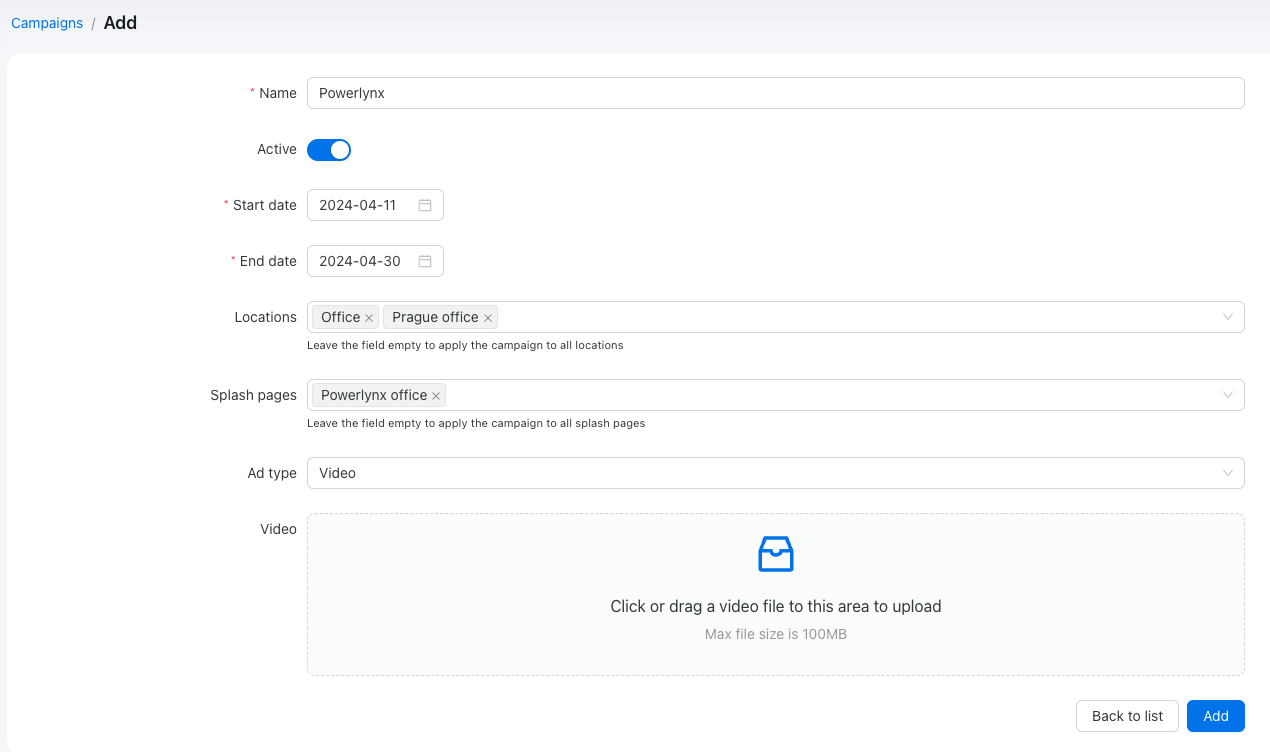
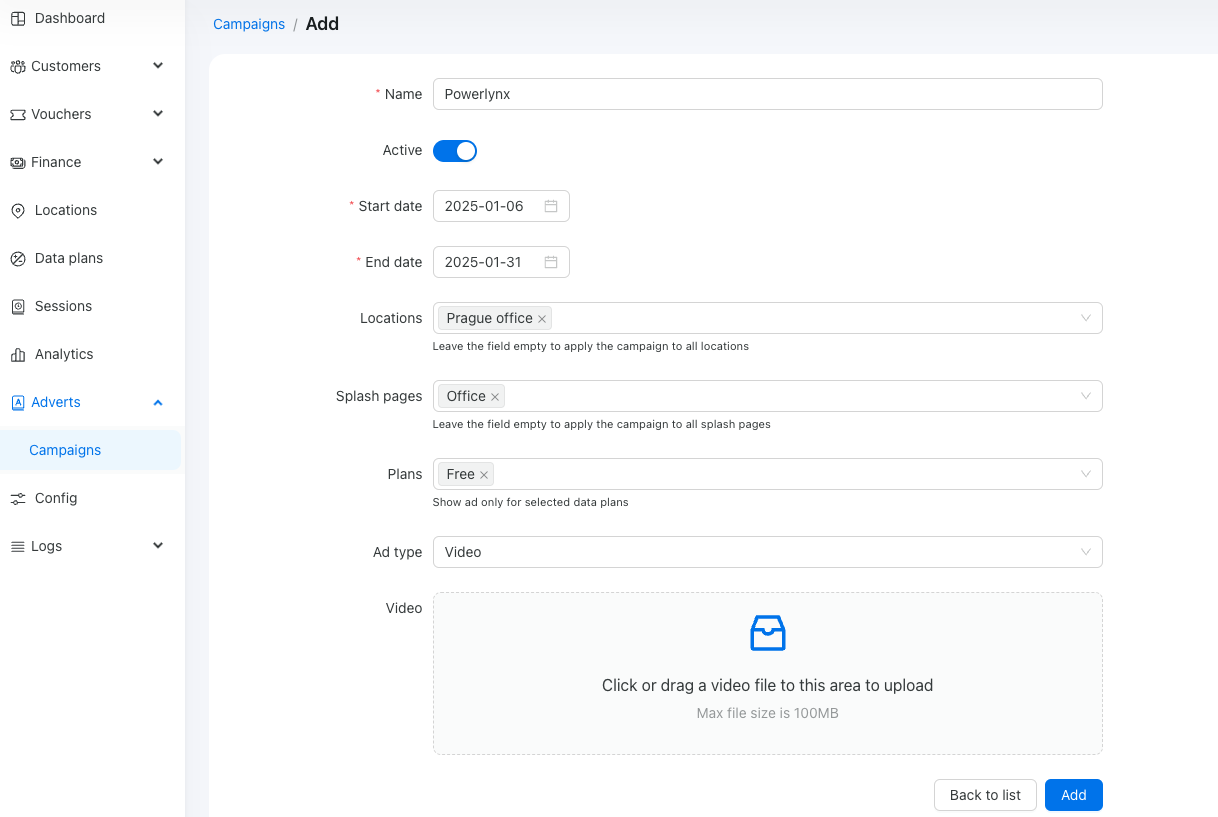
update docs

diff --git a/system/reports.md b/system/reports.md
@@ -40,9 +40,16 @@ Export customers filtered by different statuses and their join dates. Sometimes,
 
 The exported data includes all customer information and also the last time the customer was online, when the last purchase was made, and more.
 
+## Customers by Location
+
+A new report lets you see which customers were activated at a specific location during a chosen timeframe.
+
+**Example:** You might export all customers (and their details) who purchased a voucher at Location #1, the Restaurant. This information can then be used to create personalized email campaigns targeting those customers.
+
+
 ## Payments export
 
-Export payments filtered by different payment gateways, date, etc.
+This report provides an export of payments for a specified period. You can generate it by filtering based on location, payment gateway, and date range. The resulting file includes: customer, payment and voucher details; the location where each voucher was purchased; first session information (MAC address, IP address, port, and NAS identifier) for each voucher.
 
 # Reports scheduler
 

diff --git a/system/adverts.md b/system/adverts.md
@@ -16,7 +16,7 @@ This action will open a form where you can configure your campaign:
 
 ![Create](images/create_video_a.png){data-zoomable}
 
-In this example, we created the 'Powerlynx' ad campaign, which is active from 2024-04-11 to 2024-04-30, across two locations that share the same splash page. The ad type is video, and you can upload a video with a maximum size of 100 MB, with no restrictions on its extension. We will be using the .MP4 video format.
+In this example, we created the “Powerlynx” ad campaign, active from 2025-01-06 to 2025-01-31, at the location called “Prague office” and the splash page called “Office,” limited to the plan named “Free.” The ad type is video, and you can upload a file up to 100 MB in size, with no restrictions on file extension. Here, we’re using an .MP4 video.
 
 Once created, you will see the parameters that can be modified and the uploaded video. You may also notice a new field called 'Ad view counter,' which displays the number of views for this specific ad:
 
